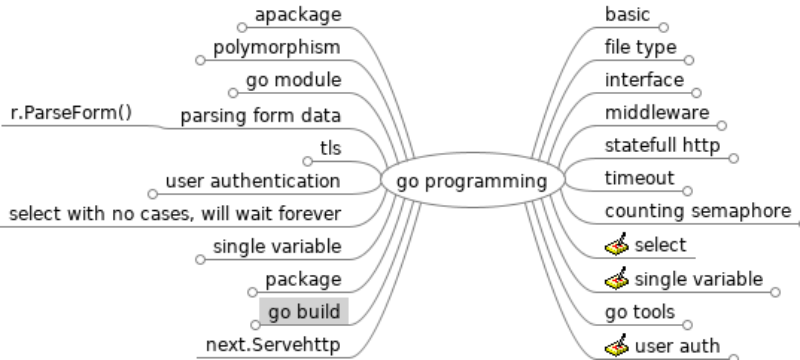
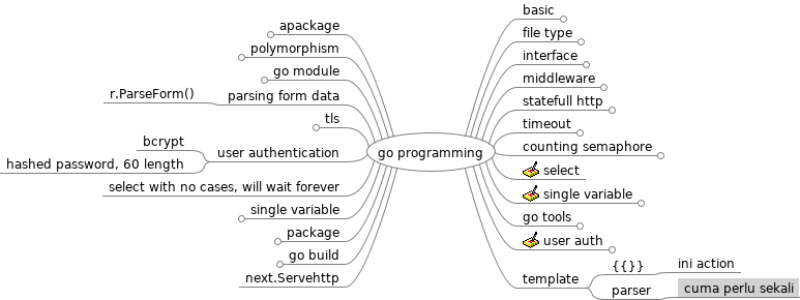
update lecture notes

Changed region(s): [[0.0, 0.0, 1.0, 1.0]]

diff --git a/go programming.mm b/go programming.mm
@@ -76,7 +76,7 @@
 <node CREATED="1651418452854" ID="ID_1622765166" MODIFIED="1651418463250" TEXT="jag2 kalo lama kirim requet"/>
 </node>
 </node>
-<node CREATED="1651418536114" FOLDED="true" ID="ID_1303226858" MODIFIED="1662500897805" POSITION="left" TEXT="user authentication">
+<node CREATED="1651418536114" ID="ID_1303226858" MODIFIED="1669553928101" POSITION="left" TEXT="user authentication">
 <node CREATED="1651418599664" ID="ID_795671282" MODIFIED="1651418604758" TEXT="bcrypt"/>
 <node CREATED="1651494107051" ID="ID_701013129" MODIFIED="1651494126491" TEXT="hashed password, 60 length"/>
 </node>
@@ -125,8 +125,7 @@
       package, need to be mutex
     </p>
   </body>
-</html>
-</richcontent>
+</html></richcontent>
 <node CREATED="1651855831422" ID="ID_608755117" MODIFIED="1651855843520" TEXT="deadlock, livelock, starvation"/>
 </node>
 <node CREATED="1651933720736" FOLDED="true" ID="ID_1771746173" MODIFIED="1662500907107" POSITION="left" TEXT="package">
@@ -159,12 +158,19 @@
       same site session
     </p>
   </body>
-</html>
-</richcontent>
+</html></richcontent>
 <node CREATED="1652108271318" ID="ID_1758184807" MODIFIED="1652108278033" TEXT="bcrptyt">
 <node CREATED="1652108278800" ID="ID_1942693781" MODIFIED="1652108284162" TEXT="buat salting the password"/>
 </node>
 </node>
 <node CREATED="1652264868420" ID="ID_608019787" MODIFIED="1652264875825" POSITION="left" TEXT="next.Servehttp"/>
+<node CREATED="1669563651804" ID="ID_963230724" MODIFIED="1669563654904" POSITION="right" TEXT="template">
+<node CREATED="1669563655146" ID="ID_1684762852" MODIFIED="1669563657403" TEXT="{{}}">
+<node CREATED="1669563657797" ID="ID_393999377" MODIFIED="1669563660156" TEXT="ini action"/>
+</node>
+<node CREATED="1669563848118" ID="ID_548947099" MODIFIED="1669563851808" TEXT="parser">
+<node CREATED="1669563852126" ID="ID_1982067641" MODIFIED="1669563856530" TEXT="cuma perlu sekali"/>
+</node>
+</node>
 </node>
 </map>

diff --git a/leetcode.mm b/leetcode.mm
@@ -9,6 +9,13 @@
 <node CREATED="1669554002586" ID="ID_668507705" MODIFIED="1669554006562" TEXT="jump the faith"/>
 </node>
 </node>
+<node CREATED="1669554596129" ID="ID_936922305" MODIFIED="1669554604403" TEXT="lowest common ancestor">
+<node CREATED="1669554604616" ID="ID_1640265123" MODIFIED="1669554608631" TEXT="root val"/>
+<node CREATED="1669554608889" ID="ID_1527546164" MODIFIED="1669554611091" TEXT="p val"/>
+<node CREATED="1669554615062" ID="ID_1350759836" MODIFIED="1669554618501" TEXT="gimana ini?">
+<node CREATED="1669554627027" ID="ID_1764815575" MODIFIED="1669554631900" TEXT="bianry search tree"/>
+</node>
+</node>
 </node>
 </node>
 </node>
